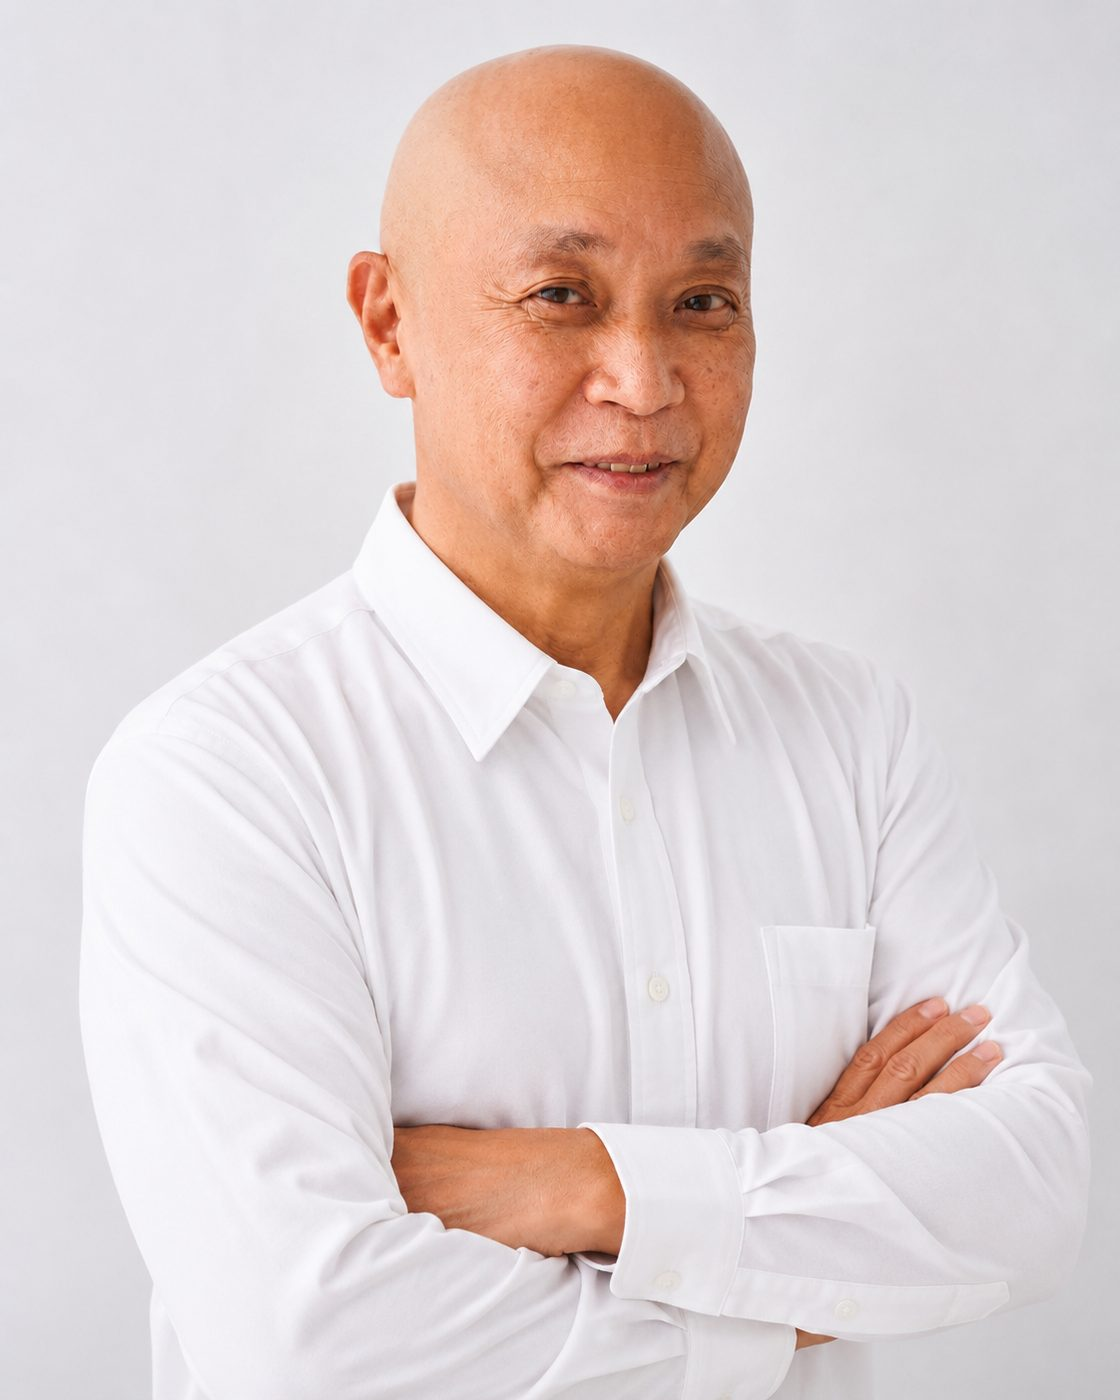
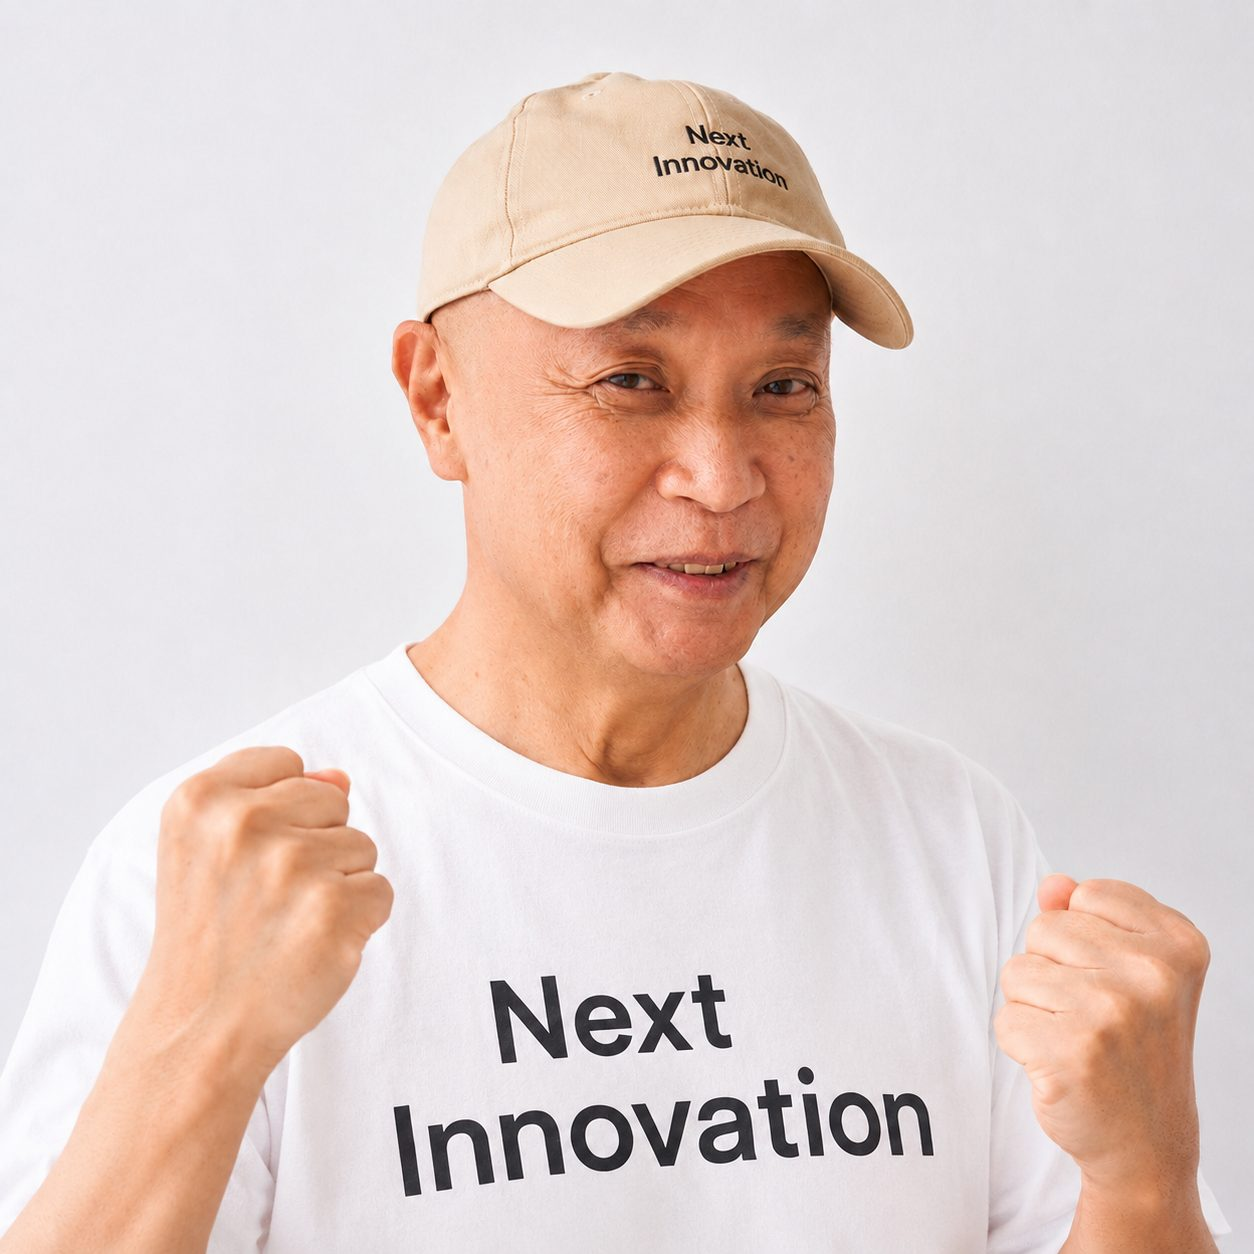
サロン内観/施術を元画像に差し戻し・代表写真をキャップ版1枚に統一(2枚目バンドは引用のみに)

diff --git a/index.html b/index.html
@@ -257,6 +257,7 @@
   .tl .it.now .ev b{color:var(--rose)}
 
   .leader-band{margin-top:clamp(44px,6vw,80px);display:grid;grid-template-columns:1fr 1.1fr;border:1px solid var(--line);background:var(--white);overflow:hidden;border-radius:3px}
+  .leader-band.quote-only{grid-template-columns:1fr;text-align:center;background:var(--cream)}
   .leader-band .ph{overflow:hidden;min-height:320px}
   .leader-band .ph img{width:100%;height:100%;object-fit:cover;display:block}
   .leader-band .quote{display:flex;flex-direction:column;justify-content:center;padding:clamp(34px,5vw,66px)}
@@ -508,8 +509,7 @@
       </div>
     </div>
 
-    <div class="leader-band reveal">
-      <div class="ph"><img src="assets/okemoto-2.jpg" alt="桶本光司"></div>
+    <div class="leader-band quote-only reveal">
       <div class="quote">
         <div class="q">現場を知る者だけが、<br><em>次のスタンダード</em>を<br>つくれる。</div>
         <div class="by">桶本 光司 — 代表取締役</div>
